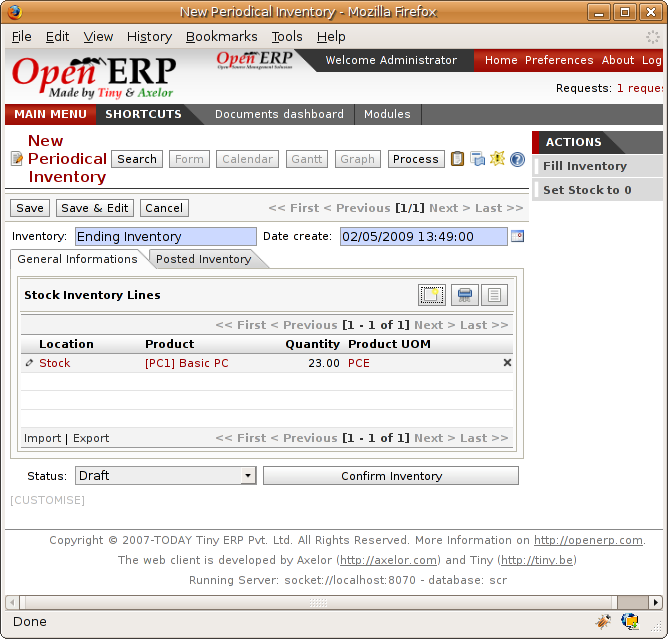
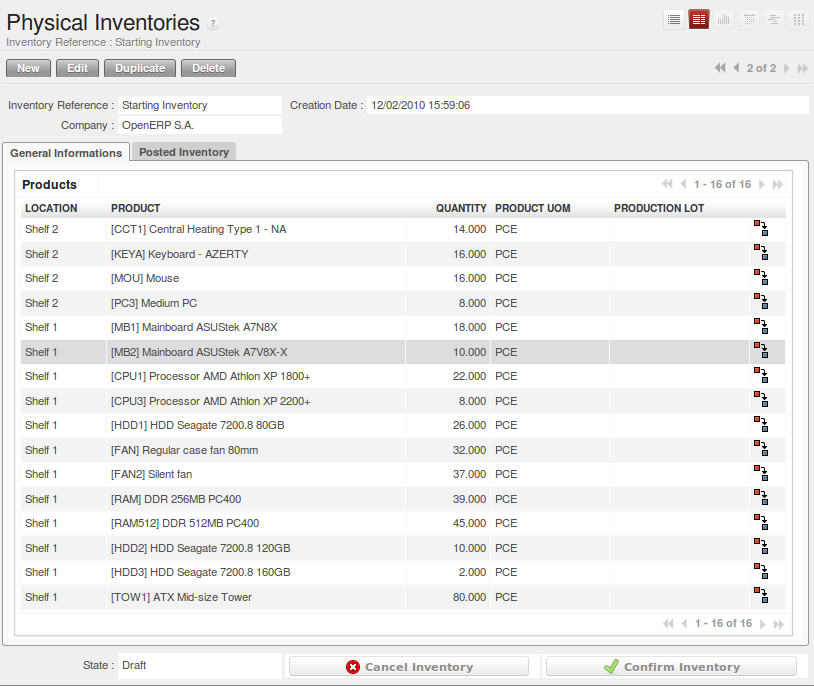
[IMP]: Warehouse : Your Warehouse --> Stocks --> Lead Times and Locations AND Initial Inventory AND Receipt of a Supplier Order.

diff --git a/5/5_14_Stock/5_14_Stock_stocks.rst b/5/5_14_Stock/5_14_Stock_stocks.rst
@@ -17,9 +17,9 @@ calculates stocks for all of the physical locations.
 
 The two important fields in product form are:
 
-* :guilabel:`Real Stock` : quantity physical present in your warehouse
+* :guilabel:`Real Stock` : Quantity physical present in your warehouse
 
-* :guilabel:`Virtual Stock` : calculated this way: real stock – outgoing + incoming
+* :guilabel:`Virtual Stock` : Calculated this way: real stock – outgoing + incoming
 
 .. note::  Virtual Stock
 
@@ -61,11 +61,11 @@ locations. Three lead time figures are available:
     The warranty period is used in the management of repairs and after-sales service.
     You can find more information on this subject in :ref:`ch-mnf`.
 
-Fields in the section :guilabel:`Storage Localisation` are given for information – they don't have
+Fields in the section :guilabel:`Storage Localisation` are given for information – they do not have
 any impact on the management of stock.
 
 :guilabel:`Counterpart locations` are automatically proposed by the system but the different values can be
-modified. You'll find counterpart locations for:
+modified. You will find counterpart locations for:
 
 * :guilabel:`Procurement`,
 
@@ -73,10 +73,10 @@ modified. You'll find counterpart locations for:
 
 * :guilabel:`Inventory`.
 
-A procurement location is a temporary location for stock moves that haven't yet been finalized by
-the scheduler. When the system doesn't yet know if procurement is to be done by a purchase or
-production, Open ERP uses the counterpart location :guilabel:`Procurement`. You'll find there
-everything that hasn't yet been planned by the system. The quantities of product in this location
+A procurement location is a temporary location for stock moves that have not yet been finalized by
+the scheduler. When the system does not yet know if procurement is to be done by a purchase or
+production, Open ERP uses the counterpart location :guilabel:`Procurement`. You will find there
+everything that has not yet been planned by the system. The quantities of product in this location
 cancel each other out.
 
 .. index::
@@ -87,11 +87,11 @@ Initial Inventory
 -----------------
 
 Once a product has been defined, use an initial inventory operation to put actual current quantities
-into the system by location for the products in stock. Use the menu :menuselection:`Stock Management
---> Periodical Inventory --> New Periodical Inventory` for this.
+into the system by location for the products in stock. Use the menu :menuselection:`Warehouse
+--> Inventory Control --> Physical Inventories` for this.
 
 .. figure:: images/stock_inventory_new.png
-   :scale: 75
+   :scale: 50
    :align: center
 
    *Defining a new inventory operation*
@@ -119,8 +119,7 @@ Enter data for a single line in your inventory:
     That means you can check the stock levels of a proportion of your products every so often.
     This system is accepted in France as long as you can guarantee that all of your products have
     been counted at least once per year.
-    To do this, use the report :menuselection:`Stock Management --> Reporting --> Dates of
-    Inventories`.
+    To do this, use the report :menuselection:`Warehouse --> Reporting --> Last Product Inventories`.
 
     This gives you the last inventory date by product.
 
@@ -141,9 +140,9 @@ is to reopen the product form to see the quantities available in stock.
 Receipt of a Supplier Order
 ---------------------------
 
-Supplier goods receipt forms are automatically prepared by Open ERP by the purchase management
-process. You'll find a list of all the awaited receipts in the menu :menuselection:`Stock Management
---> Incoming Products --> Packing to Process`. Use the order number or the supplier name to find the
+Incoming Shipments forms are automatically prepared by Open ERP by the purchase management
+process. You will find a list of all the awaited receipts in the menu :menuselection:`Warehouse
+--> Warehouse Management --> Incoming Shipments`. Use the order number or the supplier name to find the
 right goods receipt form for confirmation of a goods in. This approach enables you to control
 quantities received by referring to the quantities ordered.
 
@@ -153,10 +152,9 @@ quantities received by referring to the quantities ordered.
 
    *List of items waiting*
 
-You can also do goods-in data entry manually if there's no order, using the same menu
-:menuselection:`Stock Management --> Incoming Products --> New Reception Packing`.
+You can also do goods-in data entry manually if there is no order, using the same menu by clicking on `New` button.
 
-A new goods-in data entry form then opens. Enter the supplier data in the :guilabel:`Partner` field
+A new goods-in data entry form then opens. Enter the supplier data in the :guilabel:`Address` field
 and you can type in the reference number from your supplier in the field :guilabel:`Origin`. You
 should then enter data about the products received in the lines.
 
@@ -167,7 +165,7 @@ this chapter, so leave this field empty for the moment).
 
 Once the form has been completed you
 can confirm the receipt of all the products at the same time
-using the :guilabel:`Process Now` button. If you want to enter data for a goods receipt that you're still
+using the :guilabel:`Process Now` button. If you want to enter data for a goods receipt that you are still
 waiting for click the button :guilabel:`Process Later`.
 
 .. figure:: images/stock_picking_in_form.png
@@ -178,7 +176,7 @@ waiting for click the button :guilabel:`Process Later`.
 
 The products then arrive in stock and should reflect the quantities shown on the product form.
 
-In the goods receipt form, the field :guilabel:`Invoicing Control` lets you influence the way you
+In the `Incoming Shipments` form, the field :guilabel:`Invoicing Control` lets you influence the way you
 send invoices to suppliers. If this is set to ``To be invoiced`` a supplier invoice will now be
 generated automatically in the draft state, based on the goods received. Your accountant then has to
 confirm this pre-invoicing once the supplier's invoice is received. This enables you to verify that
